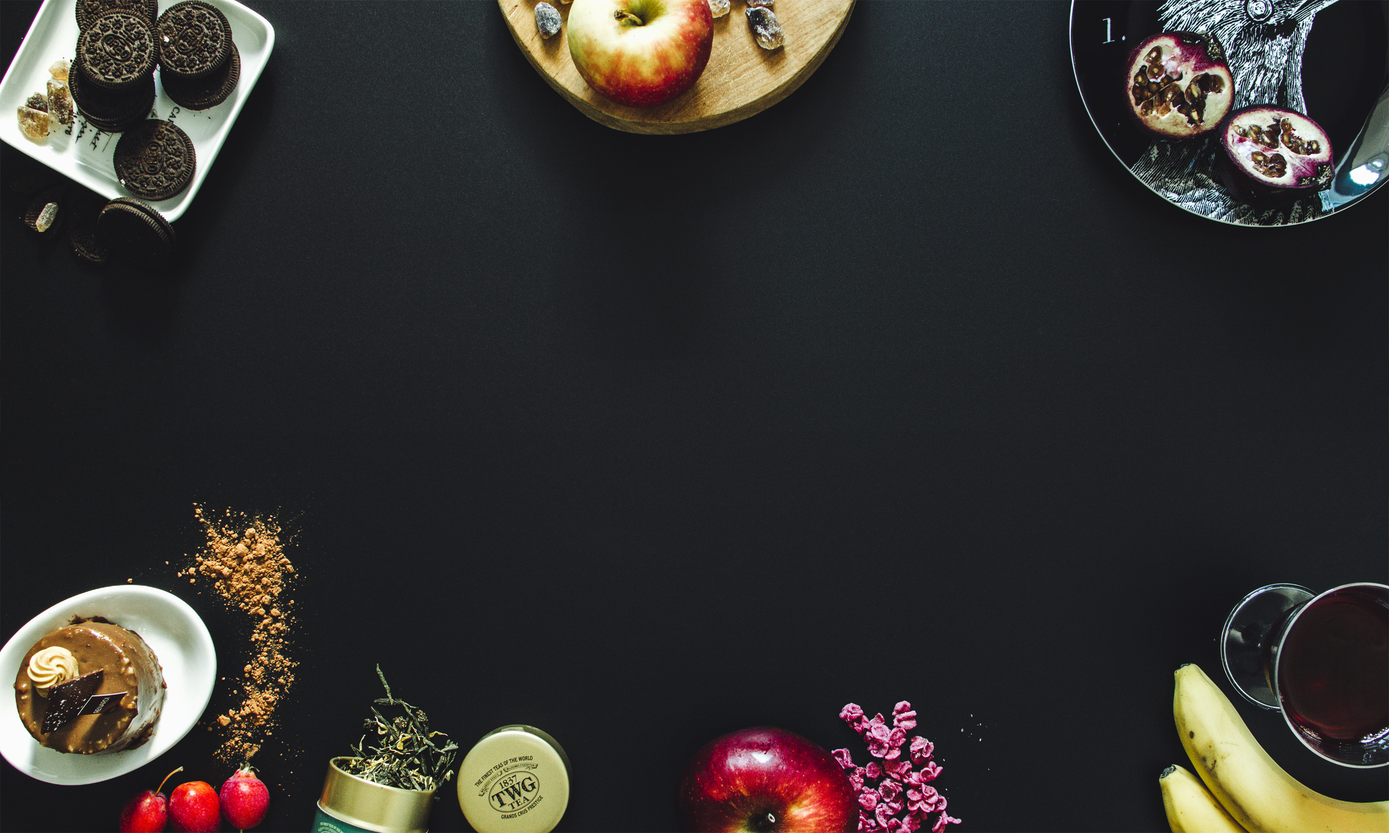
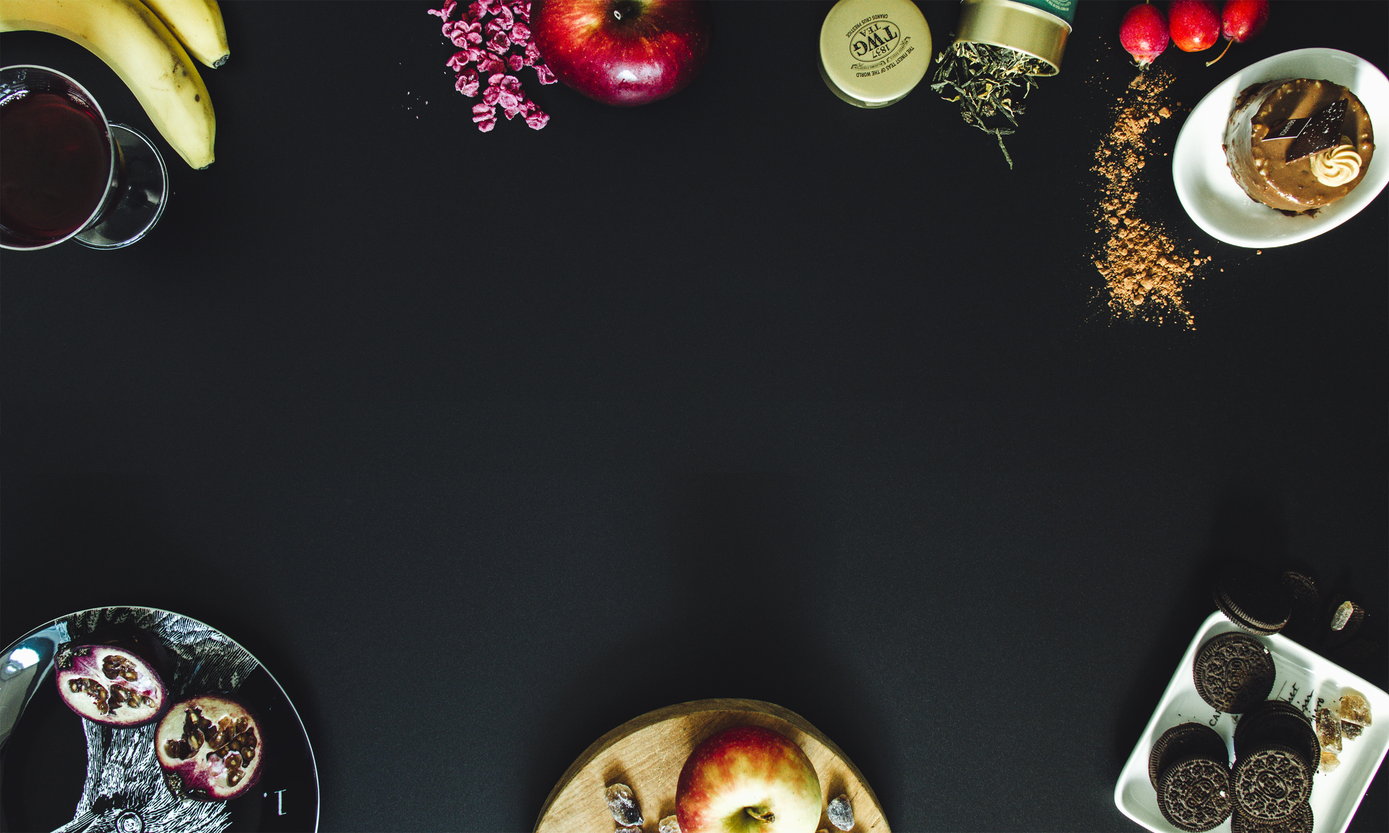
AboutPageCSS

Changed region(s): [[0.0, 0.6222, 1.0, 1.0], [0.0, 0.0, 0.775, 0.3111], [0.775, 0.0, 1.0, 0.4044]]

diff --git a/MIE350 Project V2/WebContent/css/mystyle.css b/MIE350 Project V2/WebContent/css/mystyle.css
@@ -45,10 +45,10 @@
     display: table;
     width: 100%;
     height: auto;
-    padding: 100px 0;
-    text-align: center;
+    padding: 70px 250px;
+    text-align: left;
     color: #CCC;
- background: url('../img/login2.jpg');
+ background: url('../img/foodDarkFlip.jpg');
     -webkit-background-size: cover;
     -moz-background-size: cover;
     background-size: cover;
@@ -85,7 +85,7 @@
     display: table;
     width: 100%;
     height: auto;
-    padding: 100px 0;
+    padding: 50px 0;
     text-align: center;
     color: #CCC;
     background: url('../img/foodDark.jpg');
